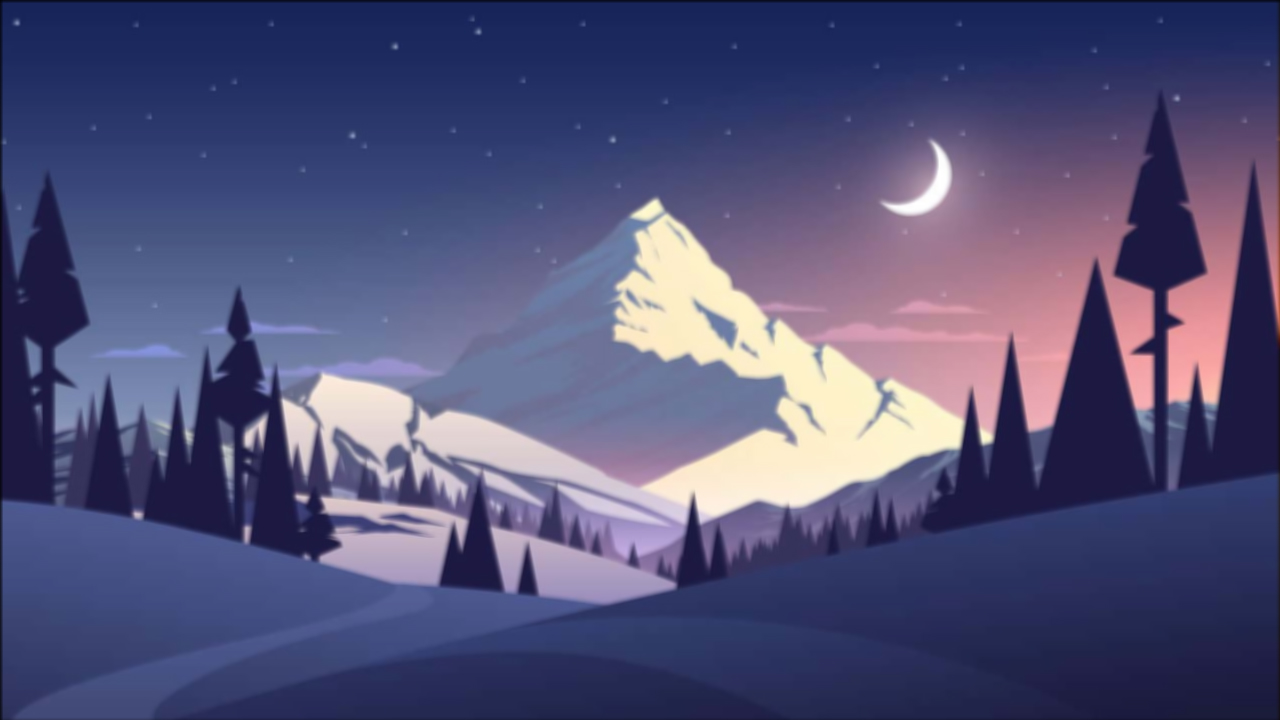
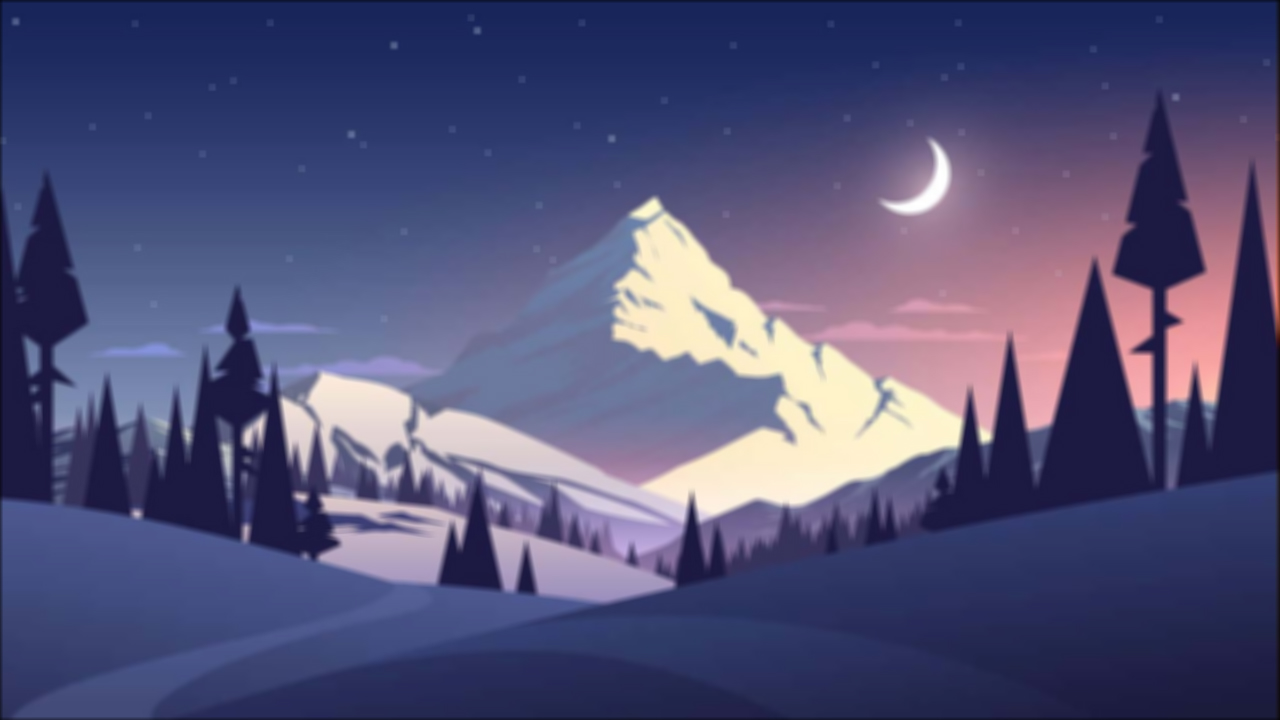
GPU code working

diff --git a/imageGB/src/main.cpp b/imageGB/src/main.cpp
@@ -7,7 +7,7 @@ void imageAnalisys4k(void);
 void ImageAnalisys720(void);
 
 int main(){
-    //ImageAnalisys720();
+    ImageAnalisys720();
     
     imageAnalisys4k();
 
@@ -21,29 +21,31 @@ void imageAnalisys4k(void)
 
     GaussianBlur GB = GaussianBlur();
 
-    //Image blurred_image = GB.blurImage(image);
-
-    // char outputFilePath[] = "./images/4k_blurred_image_CPU_prova.jpg";
-    // Image::writeImage(blurred_image,outputFilePath);
+    Image blurred_image = GB.blurImage(image);
+    char outputFilePath[] = "./images/4k_blurred_image_CPU_prova.jpg";
+    Image::writeImage(blurred_image,outputFilePath);
 
 
     Image blurred_image_GPU = GB.blurImageGPU(image);
-    char outputFilePathGPU[] = "../images/4k_blurred_image_GPU.jpg";
+    char outputFilePathGPU[] = "./images/4k_blurred_image_GPU.jpg";
     Image::writeImage(blurred_image_GPU,outputFilePathGPU);
 
 }
 
 void ImageAnalisys720(void)
 {
-    char filepath[] = "../images/720p_image.jpg";
+    char filepath[] = "./images/720p_image.jpg";
 
     Image image = Image::loadImage(filepath);
 
     GaussianBlur GB = GaussianBlur();
 
     Image blurred_image = GB.blurImage(image);
-
-    char outputFilePath[] = "../images/720p_image_blurred.jpg";
+    char outputFilePath[] = "./images/720p_image_blurred.jpg";
     Image::writeImage(blurred_image,outputFilePath);
+
+    Image blurred_image_GPU = GB.blurImageGPU(image);
+    char outputFilePathGPU[] = "./images/720p_image_blurred_GPU.jpg";
+    Image::writeImage(blurred_image_GPU,outputFilePathGPU);
 
 }

diff --git a/imageGB/src/gaussian_blur.cpp b/imageGB/src/gaussian_blur.cpp
@@ -111,8 +111,8 @@ Image GaussianBlur::blurImageGPU(Image image)
             gaussianKernel,
             image.getDataLenght(),
             this->kernel_size,
-            image.getWidth(),
             image.getHeight(),
+            image.getWidth(),
             image.getChannels());
     
     cudaDeviceSynchronize();

diff --git a/imageGB/header/gaussian_blur.h b/imageGB/header/gaussian_blur.h
@@ -11,7 +11,7 @@ class GaussianBlur{
     private:
 
         const int DEFAULT_KERNEL_SIZE = 7;
-        const int DEFAULT_STD_DEV = 3;
+        const int DEFAULT_STD_DEV = 10;
 
         int kernel_size;
         int std_dev;
